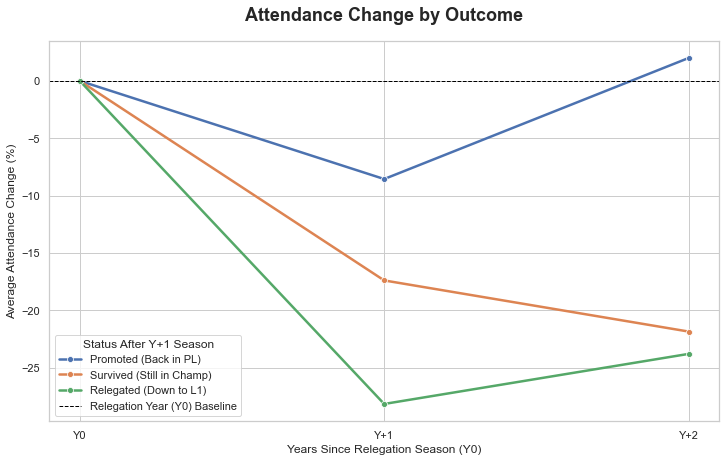
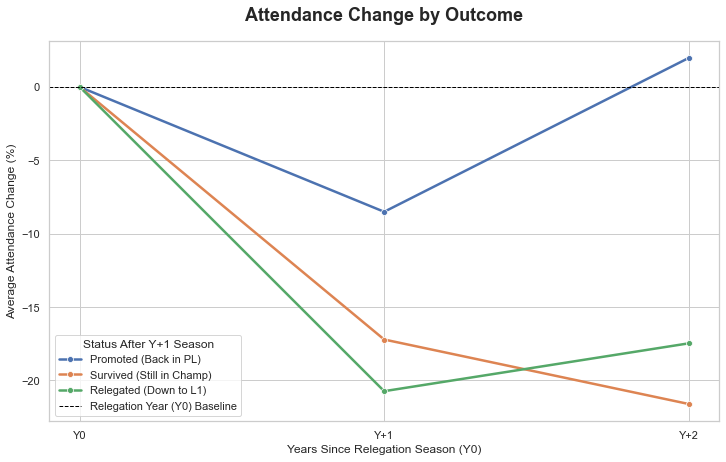
Built site for gh-pages

diff --git a/posts/no-fear-at-that-age/index.html b/posts/no-fear-at-that-age/index.html
@@ -407,7 +407,7 @@ Figure&nbsp;1: Average penalties per match over time, by league (with global tre
 </div>
 </div>
 <div class="cell" data-quarto-private-1="{&quot;key&quot;:&quot;ExecuteTime&quot;,&quot;value&quot;:{&quot;end_time&quot;:&quot;2025-09-29T16:24:00.009191Z&quot;,&quot;start_time&quot;:&quot;2025-09-29T16:23:59.967651Z&quot;}}" data-execution_count="5">
-<div id="fig-penalties-per-match-plotly" class="cell quarto-float quarto-figure quarto-figure-center anchored" data-execution_count="5" data-quarto-private-1="{&quot;key&quot;:&quot;ExecuteTime&quot;,&quot;value&quot;:{&quot;end_time&quot;:&quot;2025-09-29T16:24:00.009191Z&quot;,&quot;start_time&quot;:&quot;2025-09-29T16:23:59.967651Z&quot;}}">
+<div id="fig-penalties-per-match-plotly" class="cell quarto-float quarto-figure quarto-figure-center anchored" data-quarto-private-1="{&quot;key&quot;:&quot;ExecuteTime&quot;,&quot;value&quot;:{&quot;end_time&quot;:&quot;2025-09-29T16:24:00.009191Z&quot;,&quot;start_time&quot;:&quot;2025-09-29T16:23:59.967651Z&quot;}}" data-execution_count="5">
 <figure class="quarto-float quarto-float-fig figure">
 <div aria-describedby="fig-penalties-per-match-plotly-caption-0ceaefa1-69ba-4598-a22c-09a6ac19f8ca">
 <div id="fig-penalties-per-match-plotly-1" class="cell-output cell-output-display quarto-float quarto-figure quarto-figure-center anchored">
@@ -429,9 +429,9 @@ Figure&nbsp;1: Average penalties per match over time, by league (with global tre
 <figure class="quarto-float quarto-subfloat-fig figure">
 <div aria-describedby="fig-penalties-per-match-plotly-2-caption-0ceaefa1-69ba-4598-a22c-09a6ac19f8ca">
 <div>            <script src="https://cdnjs.cloudflare.com/ajax/libs/mathjax/2.7.5/MathJax.js?config=TeX-AMS-MML_SVG"></script><script type="text/javascript">if (window.MathJax && window.MathJax.Hub && window.MathJax.Hub.Config) {window.MathJax.Hub.Config({SVG: {font: "STIX-Web"}});}</script>                <script type="text/javascript">window.PlotlyConfig = {MathJaxConfig: 'local'};</script>
[2 lines of base64/hex data omitted]
                             
-var gd = document.getElementById('cb8e2615-9978-43d0-9b2b-259aca4e7711');
+var gd = document.getElementById('f947ddbd-aa69-4e4d-bb1f-321b51d556f3');
 var x = new MutationObserver(function (mutations, observer) {{
         var display = window.getComputedStyle(gd).display;
         if (!display || display === 'none') {{
@@ -528,7 +528,7 @@ Figure&nbsp;2
 <section id="analysis" class="level2">
 <h2 class="anchored" data-anchor-id="analysis">Analysis</h2>
 <p>First off, when it comes to conversion rates across the leagues, there are no differences whatsoever. Which is boring but convenient that we don’t need to worry too much about league effects.</p>
-<div id="631e1e60" class="cell" data-quarto-private-1="{&quot;key&quot;:&quot;ExecuteTime&quot;,&quot;value&quot;:{&quot;end_time&quot;:&quot;2025-09-29T16:24:00.202570Z&quot;,&quot;start_time&quot;:&quot;2025-09-29T16:24:00.101427Z&quot;}}" data-execution_count="8">
+<div id="658038e1" class="cell" data-quarto-private-1="{&quot;key&quot;:&quot;ExecuteTime&quot;,&quot;value&quot;:{&quot;end_time&quot;:&quot;2025-09-29T16:24:00.202570Z&quot;,&quot;start_time&quot;:&quot;2025-09-29T16:24:00.101427Z&quot;}}" data-execution_count="8">
 <div class="cell-output cell-output-display">
 <div>
 <figure class="figure">
@@ -547,7 +547,7 @@ La Liga   2956  2288  668        77.401894</code></pre>
 <p>Or do we? Any differences when we break the leagues down by age group?</p>
 <p>There’s <em>maybe</em> a trend towards improved penalty conversion as you accumulate experience. The ‘no fear’ players are <em>slightly</em> more clinical than the players aged 21-23 who may be coming under pressure to make the next step as more mature and consistent players.</p>
 <p>But this is the smallest dataset - only 925 penalties.</p>
-<div id="b3b1092b" class="cell" data-quarto-private-1="{&quot;key&quot;:&quot;ExecuteTime&quot;,&quot;value&quot;:{&quot;end_time&quot;:&quot;2025-09-29T16:24:00.578939Z&quot;,&quot;start_time&quot;:&quot;2025-09-29T16:24:00.223231Z&quot;}}" data-execution_count="9">
+<div id="1f8ebd72" class="cell" data-quarto-private-1="{&quot;key&quot;:&quot;ExecuteTime&quot;,&quot;value&quot;:{&quot;end_time&quot;:&quot;2025-09-29T16:24:00.578939Z&quot;,&quot;start_time&quot;:&quot;2025-09-29T16:24:00.223231Z&quot;}}" data-execution_count="9">
 <div class="cell-output cell-output-display">
 <div>
 <figure class="figure">
@@ -556,7 +556,7 @@ La Liga   2956  2288  668        77.401894</code></pre>
 </div>
 </div>
 </div>
-<div id="4d3acb4a" class="cell" data-quarto-private-1="{&quot;key&quot;:&quot;ExecuteTime&quot;,&quot;value&quot;:{&quot;end_time&quot;:&quot;2025-09-29T16:24:00.758755Z&quot;,&quot;start_time&quot;:&quot;2025-09-29T16:24:00.596706Z&quot;}}" data-execution_count="10">
+<div id="c15b45b2" class="cell" data-quarto-private-1="{&quot;key&quot;:&quot;ExecuteTime&quot;,&quot;value&quot;:{&quot;end_time&quot;:&quot;2025-09-29T16:24:00.758755Z&quot;,&quot;start_time&quot;:&quot;2025-09-29T16:24:00.596706Z&quot;}}" data-execution_count="10">
 <div class="cell-output cell-output-display">
 <div>
 <figure class="figure">

diff --git a/posts/post-relegation-attendance/index.html b/posts/post-relegation-attendance/index.html
@@ -363,7 +363,10 @@ gtag('config', 'G-HNQKPVKC29', { 'anonymize_ip': true});
   <li><a href="#a-results-business" id="toc-a-results-business" class="nav-link" data-scroll-target="#a-results-business">A Results Business</a></li>
   <li><a href="#would-champagne-football-help" id="toc-would-champagne-football-help" class="nav-link" data-scroll-target="#would-champagne-football-help">Would champagne football help?</a></li>
   </ul></li>
-  <li><a href="#conclusions" id="toc-conclusions" class="nav-link" data-scroll-target="#conclusions">Conclusions</a></li>
+  <li><a href="#conclusions" id="toc-conclusions" class="nav-link" data-scroll-target="#conclusions">Conclusions</a>
+  <ul class="collapse">
+  <li><a href="#sources-1" id="toc-sources-1" class="nav-link" data-scroll-target="#sources-1">Sources:</a></li>
+  </ul></li>
   </ul>
 <div class="toc-actions"><ul><li><a href="https://github.com/diggydigsdata/blob/main/posts/post-relegation-attendance/index.ipynb" class="toc-action"><i class="bi bi-github"></i>View source</a></li></ul></div></nav>
     </div>
@@ -514,7 +517,7 @@ gtag('config', 'G-HNQKPVKC29', { 'anonymize_ip': true});
 <section id="increased-attendance-after-relegation" class="level3">
 <h3 class="anchored" data-anchor-id="increased-attendance-after-relegation">Increased attendance after relegation?</h3>
 <p>Let’s start on a positive note. On 10 occasions, teams managed to increase their average attendance in the first season (Y+1) immediately following relegation.</p>
-<div id="cell-11" class="cell" data-quarto-private-1="{&quot;key&quot;:&quot;ExecuteTime&quot;,&quot;value&quot;:{&quot;end_time&quot;:&quot;2025-11-10T08:57:25.049565Z&quot;,&quot;start_time&quot;:&quot;2025-11-10T08:57:25.038752Z&quot;}}" data-cap="Table 1: Teams with Increased Attendance in Year +1">
+<div id="cell-11" class="cell" data-quarto-private-1="{&quot;key&quot;:&quot;ExecuteTime&quot;,&quot;value&quot;:{&quot;end_time&quot;:&quot;2025-11-10T08:57:25.049565Z&quot;,&quot;start_time&quot;:&quot;2025-11-10T08:57:25.038752Z&quot;}}" data-cap="Table 1: Teams with Increased Attendance in Year +1" data-execution_count="70">
 <div class="cell-output cell-output-stdout">
 <pre><code>
 --- TABLE 1: Increased Attendance (Year +1) ---
@@ -548,7 +551,7 @@ gtag('config', 'G-HNQKPVKC29', { 'anonymize_ip': true});
 <h3 class="anchored" data-anchor-id="and-in-general">And in general?</h3>
 <p>Those positive stories are, unfortunately, the exceptions. On average, attendance falls significantly. But to find the real signal, we must first identify and handle the noise.</p>
 <p>A box plot of all post-relegation data (Y+1 and Y+2) shows the wild variance in outcomes.</p>
-<div id="cell-14" class="cell">
+<div id="cell-14" class="cell" data-execution_count="76">
 <div class="cell-output cell-output-stdout">
 <pre><code>
 --- PLOT: Box Plot for Distribution (All Data Included) ---</code></pre>
@@ -557,18 +560,18 @@ gtag('config', 'G-HNQKPVKC29', { 'anonymize_ip': true});
 <div class="quarto-figure quarto-figure-center">
 <figure class="figure">
 <p><img src="index_files/figure-html/cell-8-output-2.png" class="img-fluid figure-img"></p>
-<figcaption>Distribution of attendance change (Y+1 &amp; Y+2) by outcome, including all outliers.</figcaption>
+<figcaption>Distribution of attendance change (Y+1 &amp; Y+2) by outcome, including all outliers and sample sizes.</figcaption>
 </figure>
 </div>
 </div>
 </div>
 <p>The plot above clearly shows several extreme statistical outliers (the dots) that are skewing the data. To understand what they are, we can use the <code>1.5 * IQR</code> rule (the same logic the box plot uses) to print a list of them.</p>
-<div id="cell-16" class="cell">
+<div id="cell-16" class="cell" data-execution_count="72">
 <div class="cell-output cell-output-stdout">
 <pre><code>
 --- Outlier Hunt (Using 1.5 * IQR Rule) ---
 
---- Outliers for 'Promoted' (Outside -21.27 to 17.22) ---
+--- Outliers for 'Promoted' (Outside -22.31 to 17.73) ---
 | Relegation_Event_ID      |   Year_vs_Relegation |   Pct_Change_vs_Y0_Display |
 |:-------------------------|---------------------:|---------------------------:|
 | Leicester City 2001-02   |                    2 |                      56.20 |
@@ -579,7 +582,7 @@ gtag('config', 'G-HNQKPVKC29', { 'anonymize_ip': true});
 | Hull City 2014-15        |                    1 |                     -26.99 |
 | Birmingham City 2007-08  |                    1 |                     -27.12 |
 
---- Outliers for 'Survived' (Outside -53.32 to 16.09) ---
+--- Outliers for 'Survived' (Outside -53.88 to 17.15) ---
 | Relegation_Event_ID   |   Year_vs_Relegation |   Pct_Change_vs_Y0_Display |
 |:----------------------|---------------------:|---------------------------:|
 | Sunderland 1996-97    |                    2 |                      85.69 |
@@ -687,7 +690,7 @@ gtag('config', 'G-HNQKPVKC29', { 'anonymize_ip': true});
 <section id="a-results-business" class="level3">
 <h3 class="anchored" data-anchor-id="a-results-business">A Results Business</h3>
 <p>Next up, we’ll look at our <code>Year_End_Outcome</code> variable. Let’s plot the attendance change over time, grouping teams by whether they were Promoted, Survived, or Relegated in their first post-relegation season.</p>
-<div id="cell-20" class="cell">
+<div id="cell-20" class="cell" data-execution_count="73">
 <div class="cell-output cell-output-stdout">
 <pre><code>
 --- PLOT 1: Attendance Change by Y+1 Outcome (Final Filter) ---
@@ -695,12 +698,12 @@ gtag('config', 'G-HNQKPVKC29', { 'anonymize_ip': true});
 --- New Averages for Analysis ---
 | Outcome_Group   |   Year_vs_Relegation |   Pct_Change_vs_Y0_Display |
 |:----------------|---------------------:|---------------------------:|
-| Promoted        |                    1 |                       -8.6 |
+| Promoted        |                    1 |                       -8.5 |
 | Promoted        |                    2 |                        2.0 |
-| Relegated       |                    1 |                      -28.2 |
-| Relegated       |                    2 |                      -23.8 |
-| Survived        |                    1 |                      -17.4 |
-| Survived        |                    2 |                      -21.9 |</code></pre>
+| Relegated       |                    1 |                      -20.7 |
+| Relegated       |                    2 |                      -17.5 |
+| Survived        |                    1 |                      -17.2 |
+| Survived        |                    2 |                      -21.6 |</code></pre>
 </div>
 <div class="cell-output cell-output-display">
 <div class="quarto-figure quarto-figure-center">
@@ -713,14 +716,14 @@ gtag('config', 'G-HNQKPVKC29', { 'anonymize_ip': true});
 </div>
 <p>Irrespective of season outcome, relegated teams <em>on average</em> lose fans. And there seems to be a clear correlation between team performance and attendance. Moreover, it does seem that performance affects attendances.</p>
 <p><strong>Promoted (Green Line)</strong>: Teams that bounce straight back (like Burnley) see their Y+1 attendance drop minimized to just -8.6%. By Y+2, they are back in the Premier League, and attendance recovers to surpass its pre-relegation level by 2%.</p>
-<p><strong>Survived (Blue Line)</strong>: Teams that “survive” and stay in the Championship see a much larger initial drop of -17.4%. Worse, by Y+2, that optimism fades and attendance dwindles further to -21.9%.</p>
+<p><strong>Survived (Blue Line)</strong>: Teams that “survive” and stay in the Championship see a much larger initial drop of -17.2%. Worse, by Y+2, that optimism fades and attendance dwindles further to -21.6%.</p>
 <p><strong>Relegated (Orange Line)</strong>: Teams that enter freefall and plummet into League 1 see a catastrophic -28% drop in Y+1, which slightly recovers to -24% in Y+2.</p>
 </section>
 <section id="would-champagne-football-help" class="level3">
 <h3 class="anchored" data-anchor-id="would-champagne-football-help">Would champagne football help?</h3>
 <p>If you’re stuck in the Championship, can you at least keep the fans entertained with attacking football?</p>
 <p>To test this, I’ve plotted <code>Goals_For_Per_Game</code> against the percentage change in attendance for all post-relegation seasons (Y+1 and Y+2), again grouped by the team’s outcome and with the stadium anomalies removed.</p>
-<div id="cell-23" class="cell">
+<div id="cell-23" class="cell" data-execution_count="74">
 <div class="cell-output cell-output-stdout">
 <pre><code>
 --- PLOT 2: Goals vs. Attendance % Change (Final Filter) ---</code></pre>
@@ -736,30 +739,25 @@ gtag('config', 'G-HNQKPVKC29', { 'anonymize_ip': true});
 </div>
 <p>The answer seems to be: yes, but only if you have nothing else to play for.</p>
 <p>For Survived teams, there is a fairly clear positive relationship. If a team is destined for another year of mid-table Championship football, entertainment value (scoring goals) seems to help keep traffic coming through the turnstiles.</p>
-<!-- Luton really buck the trend for League 1-destined sides. And because there are so few teams who are relegated from the Premier League to League 1 in consecutive seasons, their outlier status has a huge impact on the data, dropping the averages by almost 8%. But can Luton really be considered anomalous when the data population is so small? In my view, yes. First of all, Luton had an emotional relegation season. Their captain Tom Lockyer suffered a cardiac arrest mid-game. Fortunately, he survived and has been on a road to recovery ever since with the view to playing again. Moreover, Luton battled very bravely against relegation despite these traumatising events and despite being financial minnows. Luton were a uniquely united club during their relegation season. However, that is not the only explanation. The other is that Luton are another stadium-constrained side. Kenilworth Road is famously tiny, and was a peculiar relic among Premier League stadiums. Luton have received approval for a stadium rebuild that will double its capacity. Based on their increased attendances post-relegation, Luton are another case of a club where demand has exceeded supply for some time.
-
-Just a quick note on Burnley, who were in the black during their Kompany-led campaign but have lost almost 8% this season. There are a few factors at play. First, morale sank during Kompany's PL season. Burnley were truly awful and the core of their Championship-winning side was cast aside in favour of new recruits - an inexplicable decision in the view of many fans. Moreover, ALK capital - the ownership group - made some ill-judged and patronising comments to supporters for not bringing a positive enough atmosphere to Turf Moor. In a nutshell, the mood was bleak by the end of 2022-23. Kompany's departure and subsequent replacement by Scott Parker failed to excite fans. Nor did selling half the first team squad and sitting through a million 0-0 draws. Despite the successful campaign, Parker-ball has been a bit of a slog. Sidenote: I was a huge Parker skeptic at first but I think he has brought the solidity Burnley needed and, as the season has gone on, a more cohesive team has taken shape, the football has yielded more goals and the fanbase has gotten on side. In any case, this all goes to highlight that there are complexities behind the averages I am presenting here.-->
+<!-- Luton really buck the trend for League 1-destined sides. And because there are so few teams who are relegated from the Premier League to League 1 in consecutive seasons, their outlier status has a huge impact on the data, dropping the averages by almost 8%. But can Luton really be considered anomalous when the data population is so small? In my view, yes. First of all, Luton had an emotional relegation season. Their captain Tom Lockyer suffered a cardiac arrest mid-game. Fortunately, he survived and has been on a road to recovery ever since with the view to playing again. Moreover, Luton battled very bravely against relegation despite these traumatising events and despite being financial minnows. Luton were a uniquely united club during their relegation season. However, that is not the only explanation. The other is that Luton are another stadium-constrained side. Kenilworth Road is famously tiny, and was a peculiar relic among Premier League stadiums. Luton have received approval for a stadium rebuild that will double its capacity. Based on their increased attendances post-relegation, Luton are another case of a club where demand has exceeded supply for some time.-->
 </section>
 </section>
 <section id="conclusions" class="level2">
 <h2 class="anchored" data-anchor-id="conclusions">Conclusions</h2>
 <ul>
 <li>Teams can typically expect to lose 16-22% of their attendance after relegation if they don’t bounce straight back, and that drop accelerates in the second year.</li>
-<li>If you are on track for promotion, losses are minimized to ~8% and attendance fully recovers upon returning to the Premier League.</li>
-<li>“Vibes” (like a popular manager) and “style” (attacking football) seem to be real factors, but their effect is most visible for teams stuck in mid-table, where the on-pitch result isn’t exciting enough on its own.</li>
+<li>If you are on track for promotion, losses are minimized to ~8% and attendance fully recovers upon returning to the Premier League. “Vibes” (like a popular manager), “toxicity” (like a detested owner) and “style” (attacking football) seem to be real factors. Style is most visible for teams stuck in mid-table, where the on-pitch result isn’t exciting enough on its own. But vibes and toxicity can keep a club afloat or cause it to sink.</li>
 <li>And if you are on track for League 1, these losses are considerably higher</li>
 <li>Relegation doesn’t automatically mean fan abandonment. Context matters: management, entertainment value, stadium capacity, and hope for promotion all play a role.</li>
 </ul>
-<p>Conclusions Teams can typically expect to lose 15-17% of their attendance after relegation if they don’t bounce straight back.</p>
-<p>This drop in attendance accelerates in the second year, falling to over 21% if the team is still in the Championship.</p>
-<p>If you are on track for promotion, losses are minimized to less than 10% and recover almost fully upon returning to the Premier League.</p>
-<p>“Vibes” (like a popular manager), “toxicity” (like a detested owner) and “style” (attacking football) seem to be real factors. Style is most visible for teams stuck in mid-table, where the on-pitch result isn’t exciting enough on its own. But vibes and toxicity can keep a club afloat or cause it to sink.</p>
-<p>Relegation doesn’t automatically mean fan abandonment. Context matters: management, entertainment value, stadium capacity, and hope for promotion all play a role.</p>
-<blockquote class="blockquote">
+<section id="sources-1" class="level3">
+<h3 class="anchored" data-anchor-id="sources-1">Sources:</h3>
+<p>Fjelstul, Joshua C. “The Fjelstul English Football Database v1.1.0.” May 26, 2024. <a href="https://www.github.com/jfjelstul/englishfootball">https://www.github.com/jfjelstul/englishfootball</a></p>
+<p><a href="https://www.european-football-statistics.co.uk/index1.htm">European-Football-Statistics.co.uk</a></p>
 <p>Thumbnail image courtesy of <a href="https://commons.wikimedia.org/wiki/File:Brno_-_Abandoned_soccer_stadium.jpg">Jaroslav A. Polák from Brno, Czech Republic</a>, CC0, via Wikimedia Commons</p>
-</blockquote>
 
 
+</section>
 </section>
 
 <div id="quarto-appendix" class="default"><section class="quarto-appendix-contents" id="quarto-reuse"><h2 class="anchored quarto-appendix-heading">Reuse</h2><div class="quarto-appendix-contents"><div><a rel="license" href="https://creativecommons.org/licenses/by/4.0/">CC BY 4.0</a></div></div></section></div></main> <!-- /main -->

diff --git a/index.html b/index.html
@@ -376,7 +376,7 @@ window.Quarto = {
 
 <div class="quarto-listing quarto-listing-container-grid" id="listing-listing">
 <div class="list grid quarto-listing-cols-3">
-<div class="g-col-1" data-index="0" data-categories="Rm9vdGJhbGwlMkNBbmFseXRpY3M=" data-listing-date-sort="1761951600000" data-listing-file-modified-sort="1762830836958" data-listing-date-modified-sort="NaN" data-listing-reading-time-sort="18" data-listing-word-count-sort="3425">
+<div class="g-col-1" data-index="0" data-categories="Rm9vdGJhbGwlMkNBbmFseXRpY3M=" data-listing-date-sort="1761951600000" data-listing-file-modified-sort="1762832573533" data-listing-date-modified-sort="NaN" data-listing-reading-time-sort="16" data-listing-word-count-sort="3120">
 <a href="./posts/post-relegation-attendance/index.html" class="quarto-grid-link">
 <div class="quarto-grid-item card h-100 card-left">
 <p class="card-img-top">
@@ -386,7 +386,7 @@ window.Quarto = {
 <h5 class="no-anchor card-title listing-title">
 Fair-Weather Fans?
 </h5>
-<div class="listing-reading-time card-text text-muted">18 min</div>
+<div class="listing-reading-time card-text text-muted">16 min</div>
 <div class="card-attribution card-text-small justify">
 <div class="listing-author">
 Diggy
